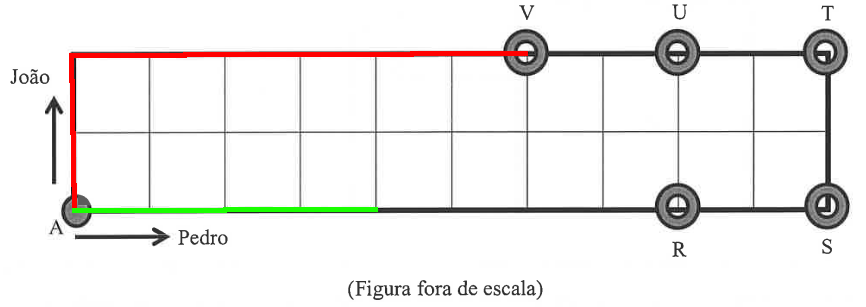
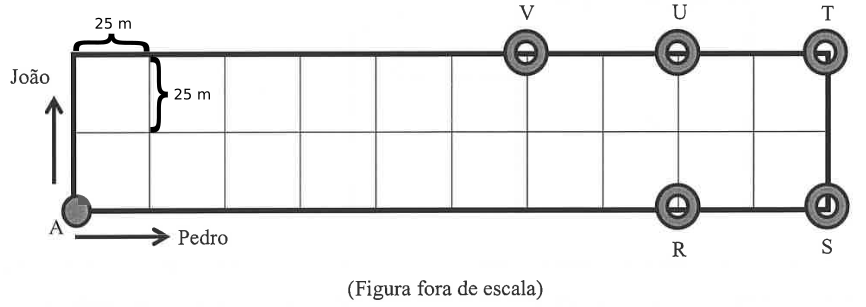
Adição de imagens na resolução da questão 03

Changed region(s): [[0.0624, 0.0586, 0.6236, 0.7036]]

diff --git a/src/2020_2021/Questao03.md b/src/2020_2021/Questao03.md
@@ -21,15 +21,19 @@ Na figura, a praça está dividida em 20 quadrados congruentes cujo perímetro d
   
   ## Resolução
 
-  A primeira coisa a se fazer aqui é calcular quanto mede o lado de cada quadrado. Sendo o perímetro igual a 100 m, sabendo que no quadrado são 4 lados iguais, cada lado mede 25 m. Logo, se João caminha 200 m, ele caminha por \\( 200 \div 25 = 8 \\) lados de quadrado, enquanto que Pedro caminha \\( 100 \div 25 = 4 \\) lados de quadrado. Podemos marcar na própria figura esses passos e assim encontrar visualmente a resposta:
+  A primeira coisa a se fazer aqui é calcular quanto mede o lado de cada quadrado. Sendo o perímetro igual a 100 m, sabendo que no quadrado são 4 lados iguais, cada lado mede 25 m.
+  
+  ![image](./resolucao03_fig01.png)
+
+  Logo, se João caminha 200 m, ele caminha por \\( 200 \div 25 = 8 \\) lados de quadrado, enquanto que Pedro caminha \\( 100 \div 25 = 4 \\) lados de quadrado. Podemos marcar na própria figura esses passos e assim encontrar visualmente a resposta:
 
   Numa primeira rodada, João andou 8 lados, ou seja, 2 para cima mais 6 para a direita, enquanto Pedro andou 4 lados para a direita:
 
-  ![image](./resolucao03_fig01.png)
+  ![image](./resolucao03_fig02.png)
 
   Numa próxima rodada, João andou mais 8 lados, ou seja, 4 para a direita, 2 para baixo e 2 para a esquerda, e Pedro andou mais 4 lados para a direita:
 
-  ![image](./resolucao03_fig02.png)
+  ![image](./resolucao03_fig03.png)
 
   Assim, o primeiro encontro deles deu-se no ponto R.
 
